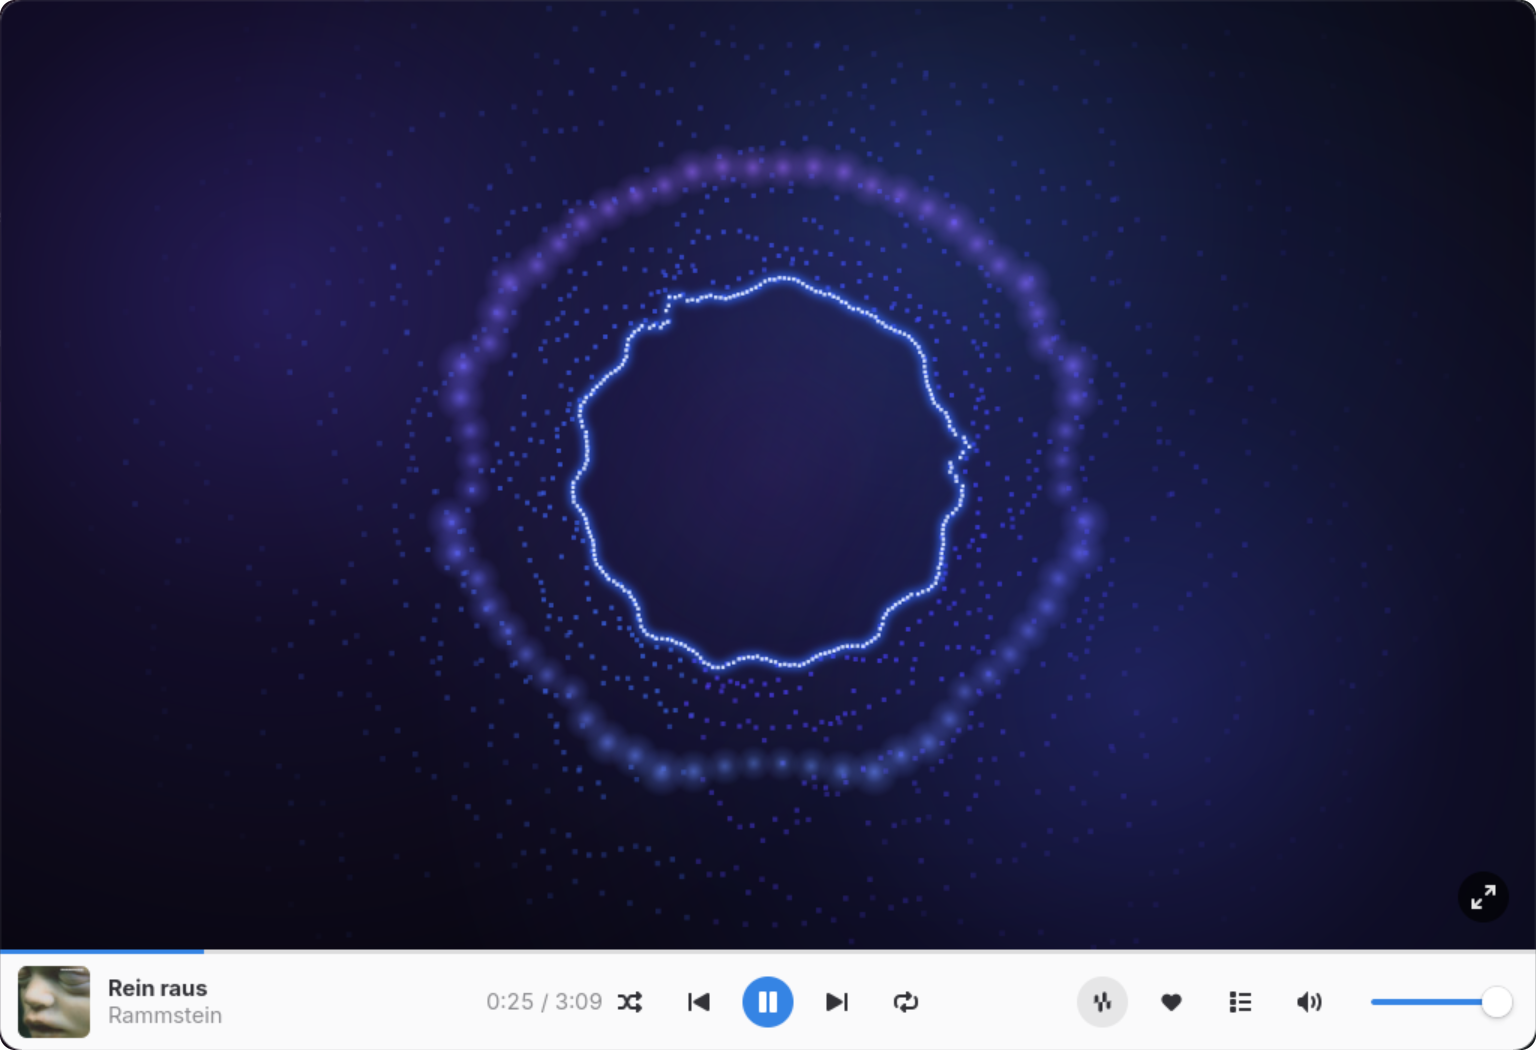
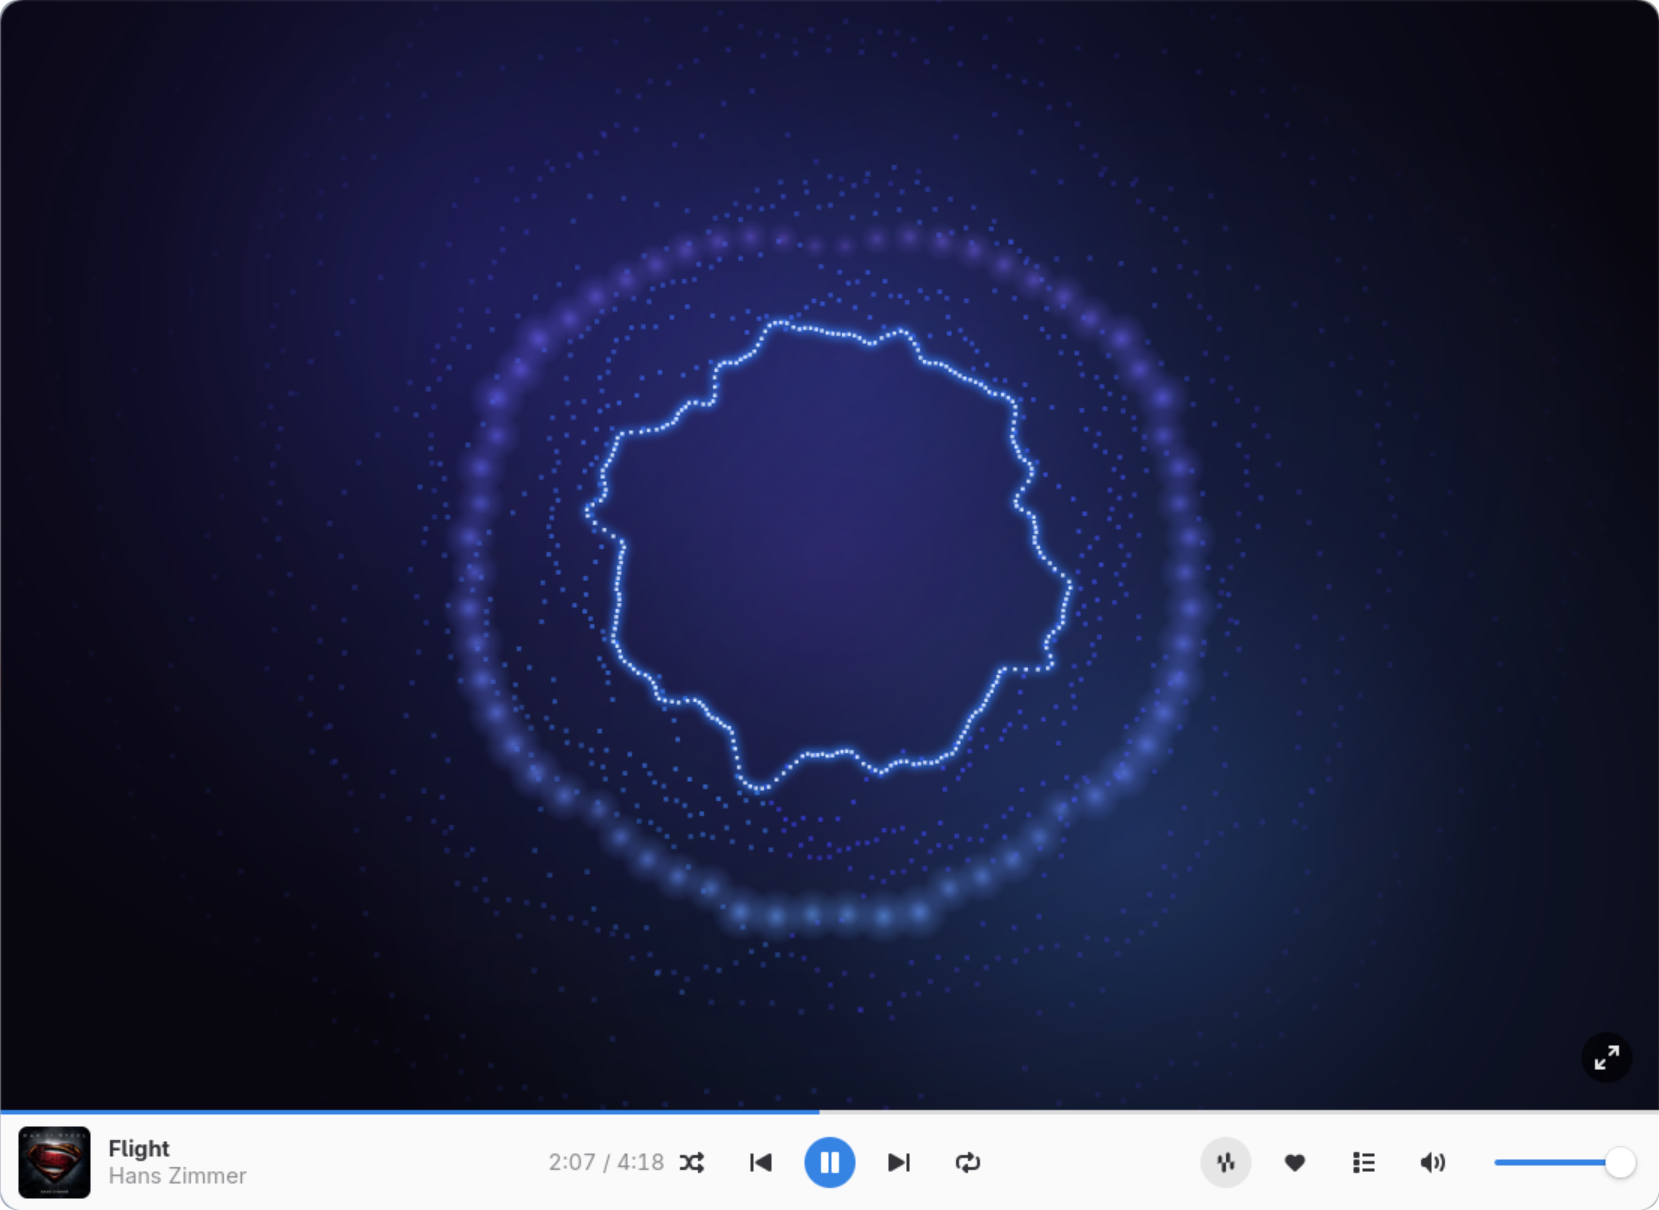
A better screenshot of the visualizer
The same view, Tunnel in the blue accent colour, with a fuller ring:
cut out of the desktop the same way, corners transparent.

diff --git a/README.md b/README.md
@@ -83,7 +83,7 @@ lives in the system keyring, and audio is streamed, never stored.
 - **Keyboard shortcuts:** <kbd>Ctrl</kbd>+<kbd>?</kbd> lists them.
 
 <p align="center">
-  <img src="docs/screenshots/visualizer.png" alt="The Tunnel visualizer in GNOME's blue accent colour: a glowing waveform ring with echoes zooming out, above the now-playing bar">
+  <img src="docs/screenshots/visualizer.png" alt="The Tunnel visualizer in GNOME's blue accent colour: a glowing waveform ring with echoes zooming out, above the now-playing bar playing Flight by Hans Zimmer">
 </p>
 
 You need a **Spotify Premium** account; librespot cannot play on a free one.
